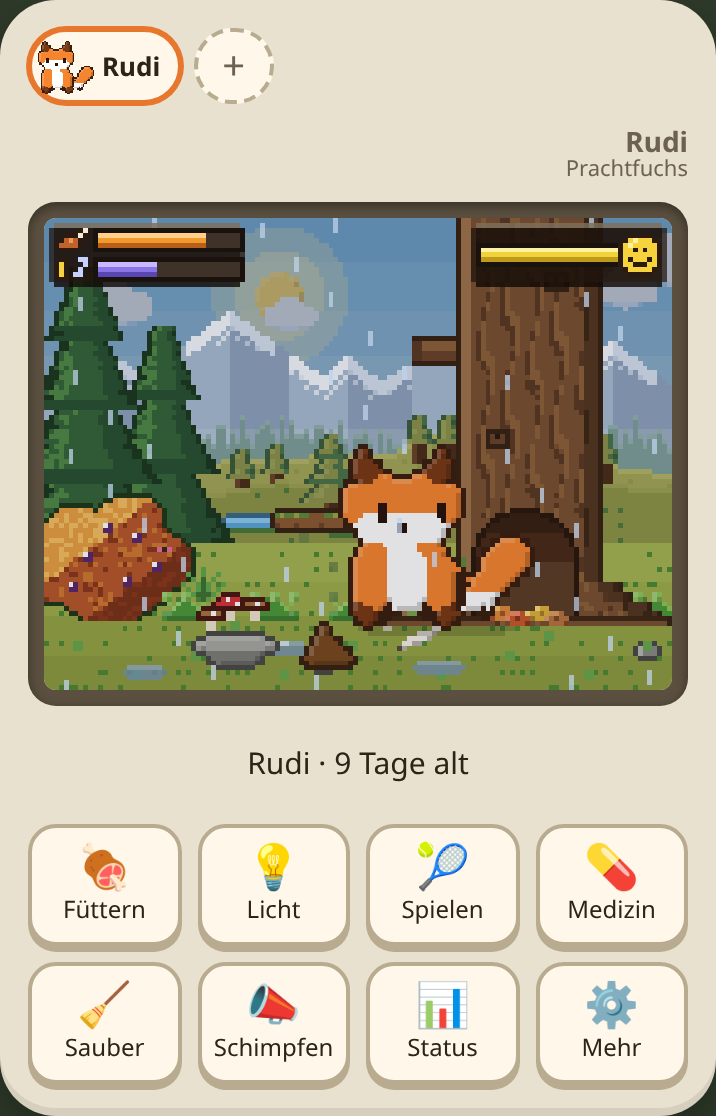
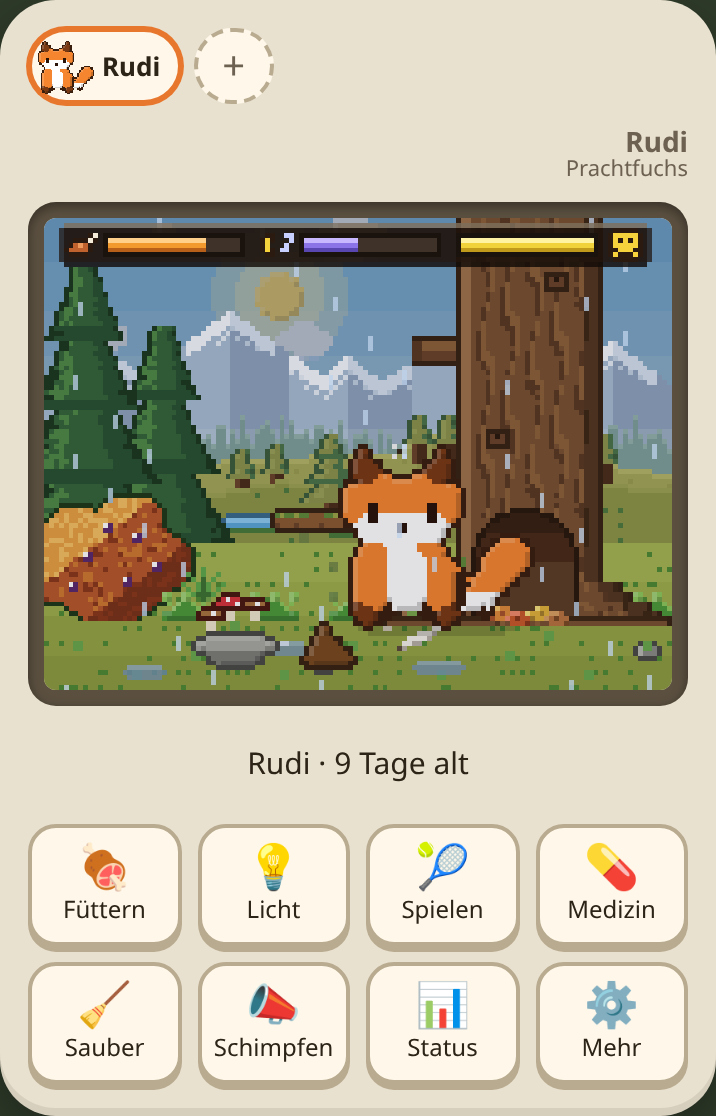
HUD: Sättigung, Müdigkeit und Laune in einer Zeile; Lampe beim Hund entfernt

diff --git a/src/render/scene.ts b/src/render/scene.ts
@@ -158,41 +158,11 @@ const HUD_COLORS: ColorMap = {
   r: '#e2384d',
   z: '#c8d0ff',
 };
+const HUD_HAPPY_S = ['.ooooo.', 'oyyyyyo', 'oyoyoyo', 'oyyyyyo', 'okyyyko', 'oykkkyo', '.ooooo.'];
+const HUD_OK_S = ['.ooooo.', 'oyyyyyo', 'oyoyoyo', 'oyyyyyo', 'oyyyyyo', 'oykkkyo', '.ooooo.'];
+const HUD_SAD_S = ['.ooooo.', 'oyyyyyo', 'oyoyoyo', 'oyyyyyo', 'oykkkyo', 'okyyyko', '.ooooo.'];
 const HUD_MEAT_S = ['.....ow', '..ooowo', '.obhbo.', 'obbbbo.', '.oooo..'];
 const HUD_MOON_S = ['.oo..zz', 'oyo...z', 'oy...z.', 'oyo.zz.', '.oo....'];
-const HUD_HAPPY = [
-  '..ooooo..',
-  '.oylyyyo.',
-  'oylyyyyyo',
-  'oyyoyoyyo',
-  'oyyyyyyyo',
-  'oykyyykyo',
-  'oyykkkyyo',
-  '.oyyyyyo.',
-  '..ooooo..',
-];
-const HUD_OK = [
-  '..ooooo..',
-  '.oylyyyo.',
-  'oylyyyyyo',
-  'oyyoyoyyo',
-  'oyyyyyyyo',
-  'oyyyyyyyo',
-  'oyykkkyyo',
-  '.oyyyyyo.',
-  '..ooooo..',
-];
-const HUD_SAD = [
-  '..ooooo..',
-  '.oylyyyo.',
-  'oylyyyyyo',
-  'oyyoyoyyo',
-  'oyyyyyyyo',
-  'oyykkkyyo',
-  'oykyyykyo',
-  '.oyyyyyo.',
-  '..ooooo..',
-];
 const HUD_SKULL = [
   '..ooooo..',
   '.ossssso.',
@@ -372,7 +342,7 @@ export class Scene {
         this.drawRoom(sp, s.clock);
         this.drawDecor(sp, t, 'static');
         drawDecorNear(this.ctx, sp.id, sunX);
-        drawLamp(this.ctx);
+        if (sp.id === 'cat') drawLamp(this.ctx); // Stehlampe nur bei der Katze
         this.bgDay = true;
       } else {
         // Himmel und Landschaft getrennt, damit die Wolken dazwischen ziehen können
@@ -473,7 +443,7 @@ export class Scene {
     // Nacht: draußen das Tier nur leicht abdunkeln, drinnen mit Lichtkreisen um Lampe und Fenster
     const nightNow = nightness(skyNow);
     const hourNow = new Date(s.clock).getHours();
-    const lampOn = this.env === 'room' && p.lightOn && (hourNow >= 18 || hourNow < 7);
+    const lampOn = sp.id === 'cat' && p.lightOn && (hourNow >= 18 || hourNow < 7);
     if (this.env === 'room') {
       const lights = [{ x: WIN.x + WIN.w / 2, y: WIN.y + WIN.h, r: 12 }];
       if (lampOn) lights.push({ x: LAMP.x, y: LAMP.shadeY + 6, r: 22 });
@@ -512,33 +482,34 @@ export class Scene {
   private drawHud(p: Pet, t: number) {
     const ctx = this.ctx;
     const PX = 1 / RES;
+    const top = 0.5;
     if (p.stage !== 'egg') {
       const mood = hearts(p.happy);
-      // links: Sättigung (oben) und Müdigkeit (unten), schmale Leisten
-      hudPanel(ctx, 0.5, 0.5, 40, 13);
-      drawPixels(ctx, HUD_MEAT_S, HUD_COLORS, 0.5 + 1 * PX, 0.5 + 1 * PX);
-      this.drawBar(0.5 + 9 * PX, 0.5 + 1 * PX, p.hunger / RULES.hearts, ['#ffd08a', '#f29a2e', '#b8601a'], t);
-      drawPixels(ctx, HUD_MOON_S, HUD_COLORS, 0.5 + 1 * PX, 0.5 + 7 * PX);
-      this.drawBar(0.5 + 9 * PX, 0.5 + 7 * PX, p.tiredness / 100, ['#c8b8ff', '#8a74e8', '#5a46b0'], t, true);
-      // rechts: Laune mit Gesicht passend zur Stimmung
-      const rx = SCREEN_W - 0.5 - 40 * PX;
-      hudPanel(ctx, rx, 0.5, 40, 13);
-      this.drawBar(rx + 1 * PX, 0.5 + 4 * PX, p.happy / RULES.hearts, ['#fff2a0', '#f2d23a', '#c09a1a'], t);
-      drawPixels(ctx, mood >= 3 ? HUD_HAPPY : mood === 2 ? HUD_OK : HUD_SAD, HUD_COLORS, rx + 30 * PX, 0.5 + 2 * PX);
+      // eine Zeile: Sättigung | Müdigkeit | Laune
+      const x0 = 1.5;
+      hudPanel(ctx, x0, top, 121, 9);
+      const y = top + 2 * PX;
+      drawPixels(ctx, HUD_MEAT_S, HUD_COLORS, x0 + 1 * PX, y);
+      this.drawBar(x0 + 9 * PX, y, p.hunger / RULES.hearts, ['#ffd08a', '#f29a2e', '#b8601a'], t);
+      drawPixels(ctx, HUD_MOON_S, HUD_COLORS, x0 + 41 * PX, y);
+      this.drawBar(x0 + 49 * PX, y, p.tiredness / 100, ['#c8b8ff', '#8a74e8', '#5a46b0'], t, true);
+      this.drawBar(x0 + 81 * PX, y, p.happy / RULES.hearts, ['#fff2a0', '#f2d23a', '#c09a1a'], t);
+      drawPixels(ctx, mood >= 3 ? HUD_HAPPY_S : mood === 2 ? HUD_OK_S : HUD_SAD_S, HUD_COLORS, x0 + 112 * PX, top + 1 * PX);
     }
-    // Mitte: krank / ruft
+    // darunter mittig: krank / ruft
     const calling = Object.keys(p.calls).length > 0;
     const blinkOn = Math.floor(t / 500) % 2 === 0;
     if (p.sick || calling) {
       const w = (p.sick ? 9 : 0) + (calling ? 3 : 0) + (p.sick && calling ? 2 : 0) + 4;
       const x = Math.round((SCREEN_W / 2 - (w * PX) / 2) * RES) / RES;
-      hudPanel(ctx, x, 0.5, w, 12);
+      const wy = p.stage !== 'egg' ? top + 5 : top;
+      hudPanel(ctx, x, wy, w, 12);
       let ix = x + 2 * PX;
       if (p.sick) {
-        drawPixels(ctx, HUD_SKULL, HUD_COLORS, ix, 0.5 + 1.5 * PX + PX / 2);
+        drawPixels(ctx, HUD_SKULL, HUD_COLORS, ix, wy + 1.5 * PX + PX / 2);
         ix += 11 * PX;
       }
-      if (calling && blinkOn) drawPixels(ctx, HUD_BANG, HUD_COLORS, ix, 0.5 + PX);
+      if (calling && blinkOn) drawPixels(ctx, HUD_BANG, HUD_COLORS, ix, wy + PX);
     }
   }
 
@@ -549,7 +520,7 @@ export class Scene {
   private drawBar(x: number, y: number, frac: number, shades: [string, string, string], t: number, alertHigh = false) {
     const ctx = this.ctx;
     const PX = 1 / RES;
-    const INNER = 29; // Bildpixel
+    const INNER = 27; // Bildpixel
     const f = Math.max(0, Math.min(1, frac));
     const alert = (alertHigh ? f >= 0.8 : f <= 0.25) && Math.floor(t / 400) % 2 === 0;
     const [hi, mid, lo] = alert ? ['#ff9aa6', '#e2384d', '#9a1c2c'] : shades;

diff --git a/SPEC.md b/SPEC.md
@@ -38,11 +38,10 @@ Abschnitte mit **(ergänzt)** stammen nicht aus der ursprünglichen Anforderung,
 Den Status kann man jederzeit über einen eigenen Statusbildschirm ansehen.
 
 **HUD:** Sättigung und Laune stehen wie in einem Videospiel **oben im Spielbild**. Alles ist im feinen Pixelraster gezeichnet und sitzt in dunklen Pixel-Rahmen mit abgeschrägten Ecken und heller Oberkante.
-- **Links oben:** zwei schmale Leisten untereinander: **Sättigung** mit Keulen-Symbol (orange) und darunter **Müdigkeit** mit Mond-Symbol (lila). Die Müdigkeit füllt sich, je müder das Tier ist.
-- **Rechts oben: Laune.** Eine schmale Leiste (gelb) und ein **Smiley, das zur Stimmung passt**: lachend, neutral oder traurig.
+- **Alle drei Anzeigen in einer Zeile** in einem gemeinsamen Rahmen oben: **Sättigung** (Keule, orange) · **Müdigkeit** (Mond, lila; füllt sich, je müder das Tier ist) · **Laune** (gelb) mit einem kleinen **Smiley, das zur Stimmung passt** (lachend, neutral, traurig).
 - Die Leisten sind **durchgehend und schmal** (5 Bildpixel hoch) mit Glanz oben und Schatten unten. Sättigung und Laune werden bei **höchstens 25 %** **rot und blinken**, die Müdigkeit ab **80 %**.
 - Im Statusbildschirm stehen Sättigung und Laune als Balken mit Prozentangabe.
-- **Oben in der Mitte** stehen die Warnsymbole: ein Totenkopf bei Krankheit und ein blinkendes Ausrufezeichen beim Rufen.
+- **Direkt darunter in der Mitte** stehen die Warnsymbole in einem eigenen kleinen Rahmen: ein Totenkopf bei Krankheit und ein blinkendes Ausrufezeichen beim Rufen.
 - Das HUD bleibt auch nachts und bei Licht aus hell.
 
 ## 4. Lebenszyklus
@@ -302,7 +301,7 @@ Mehrere Parameter lassen sich kombinieren. Bei einem Ei wirkt nur `hatch=1`.
 - **Schmetterlinge** flattern tagsüber draußen umher (gelb, weiß, rosa oder blau).
 - **Glühwürmchen** leuchten nachts draußen, drinnen sieht man sie durchs Fenster.
 - **Abendlicht:** Bei Sonnenauf- und -untergang liegt ein warmer Orange-Ton über der ganzen Szene.
-- **Stehlampe** im Zimmer (Katze, Hund): Sie brennt **abends und nachts** (18–7 Uhr) mit warmem Lichtschein, solange das Licht an ist. Bei „Licht aus“ ist sie aus.
+- **Stehlampe** im Katzenzimmer (beim Hund gibt es keine): Sie brennt **abends und nachts** (18–7 Uhr) mit warmem Lichtschein, solange das Licht an ist. Bei „Licht aus“ ist sie aus.
 
 **Jahreszeiten** nach dem echten Datum (März–Mai Frühling, Juni–August Sommer, September–November Herbst, Dezember–Februar Winter):
 - **Frühling:** frischeres Grün, rosa Blüten am Busch, weiße Blüten in der Hecke.
@@ -315,7 +314,7 @@ Mehrere Parameter lassen sich kombinieren. Bei einem Ei wirkt nur `hatch=1`.
 
 **Nacht:** Nachts wird nicht einfach ein Filter über alles gelegt, sondern nach Tiefe und Licht abgedunkelt:
 - **Draußen:** Die ferne Landschaft (Berge, Hügel, Hecke) ist am dunkelsten und bläulich, die nahe Landschaft etwas heller, das Tier selbst nur leicht abgedunkelt.
-- **Drinnen:** Das Zimmer wird dunkler. Um die brennende **Stehlampe** bleibt ein warmer, heller Lichtkreis, vom Fenster fällt **Mondlicht** herein (Lichtkreise in Stufen, passend zum Pixel-Look).
+- **Drinnen:** Das Zimmer wird dunkler. Um die brennende **Stehlampe** (Katze) bleibt ein warmer, heller Lichtkreis, vom Fenster fällt **Mondlicht** herein (Lichtkreise in Stufen, passend zum Pixel-Look).
 - In der Dämmerung geht es sanft über. Glühwürmchen, Lampe und HUD bleiben hell.
 
 **Wolken und Wetter:** Am Himmel draußen und im Fenster drinnen **ziehen Wolken vorbei**.
